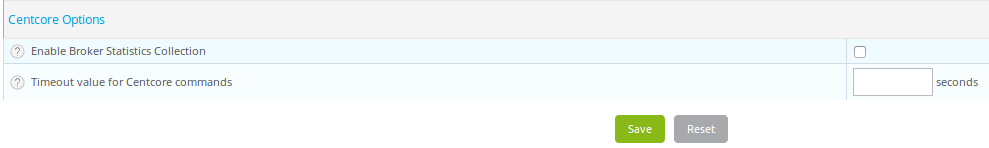
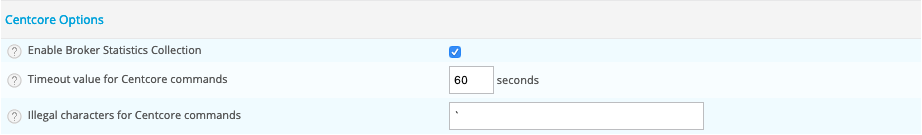
enh(doc): add missing documentation about PR #7206

diff --git a/doc/fr/administration_guide/parameters.rst b/doc/fr/administration_guide/parameters.rst
@@ -111,6 +111,7 @@ Cette partie permet de paramétrer le fonctionnement du processus CentCore.
 
 * Le champ **Activer la récupération des statistiques de Centreon Broker** active la récupération des statistiques de Centreon Broker par CentCore. Cette option peut être bloquante car la lecture du tuyau (pipe) peut être une action bloquante
 * Le champ **Temps maximum d'exécution des commandes Centcore** permet de définir un temps de d'exécution maximal des commandes locales et via SSH du processus
+* Le champ **Caractères illégaux pour les commandes Centcore** permet de définir les caractères non autorisés qui seront supprimés des commandes transférées par le processus.
 
 .. _ldapconfiguration:
 

diff --git a/doc/en/administration_guide/parameters.rst b/doc/en/administration_guide/parameters.rst
@@ -106,6 +106,7 @@ This part can be used set the operation of the CentCore process.
 
 * **Enable Broker Statistics Collection** field enables the retrieval of statistics from the Centreon Broker by CentCore. This can be a blocking option because the reading of the pipe can be a blocking action
 * **Timeout value for Centcore commands** field can be used to define a timeout for local commands and commands via SSH process.
+* **Illegal characters for Centcore commands** field allows to define characters which will be removed from commands forwarded by the process..
 
 .. _ldapconfiguration:
 
